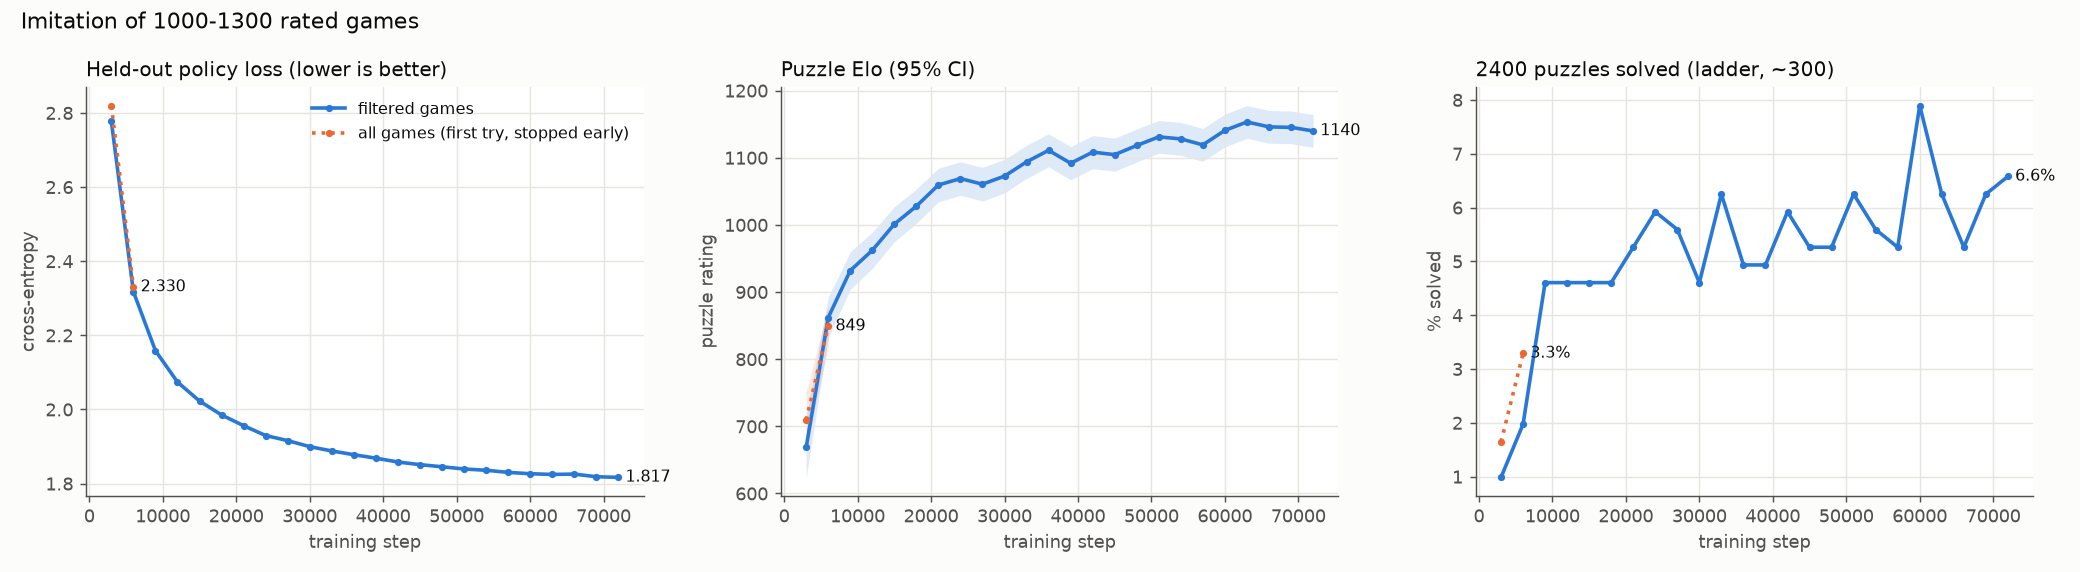
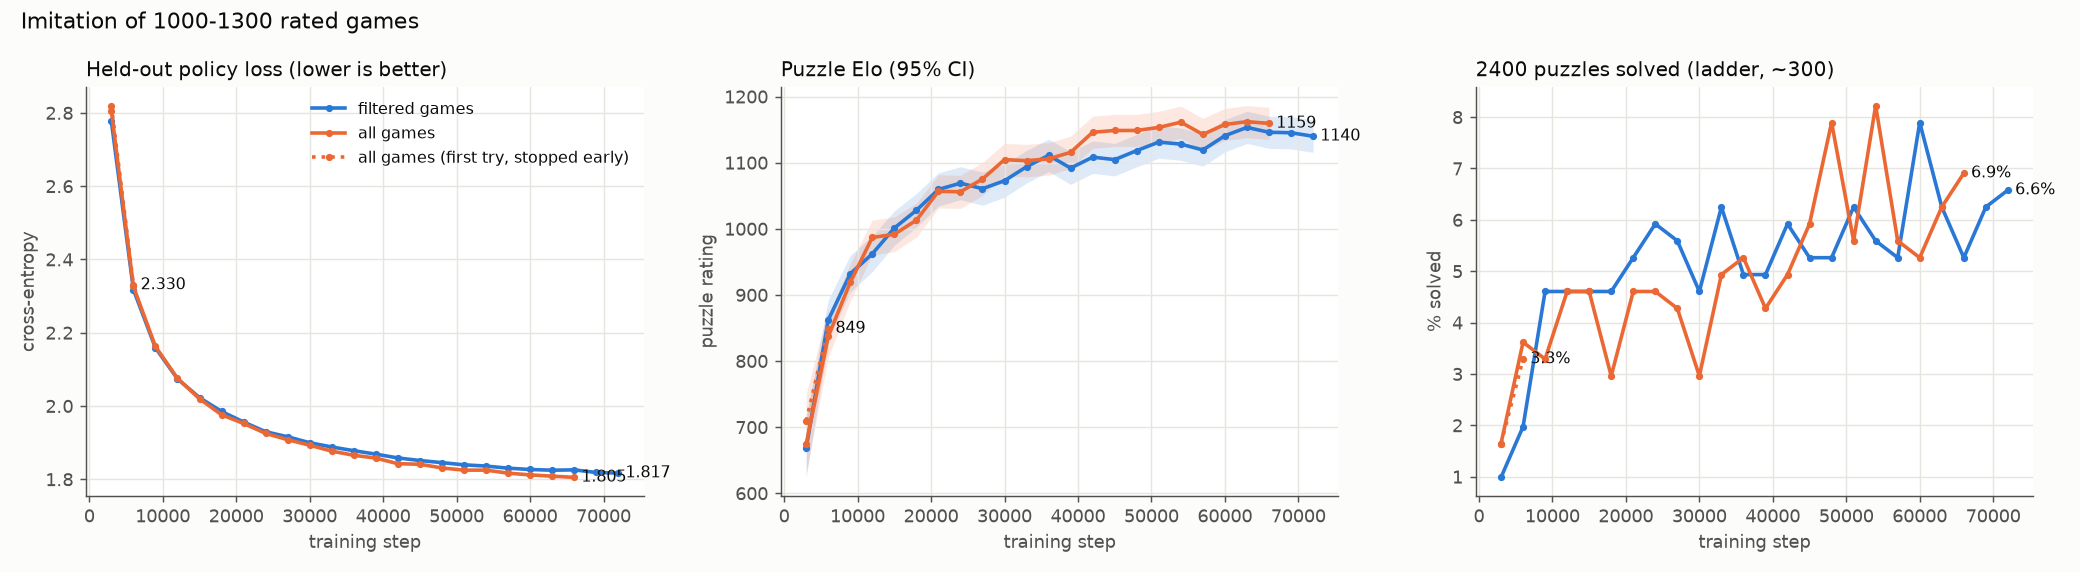
transcend results: imitation on all games next to filtered, refreshed figures

diff --git a/chess_beyond/results/transcend/summary.md b/chess_beyond/results/transcend/summary.md
@@ -7,6 +7,7 @@ Made by `python transcend/plot_results.py` from `runs/transcend/*_log.jsonl`.
 | run | last step | held-out loss | puzzle Elo (95% CI) | 1100 solved | 2400 solved |
 | --- | --: | --: | --- | --: | --: |
 | filtered games (`imitation-clean`) | 72000 | 1.817 | 1140 (1116-1164) | 37.3% | 6.58% |
+| all games (`imitation-all`) | 66000 | 1.805 | 1159 (1135-1184) | 37.7% | 6.91% |
 | all games (first try, stopped early) (`imitation`) | 6000 | 2.330 | 849 (818-880) | 9.8% | 3.29% |
 
 ## RL on 900-1200 puzzles
